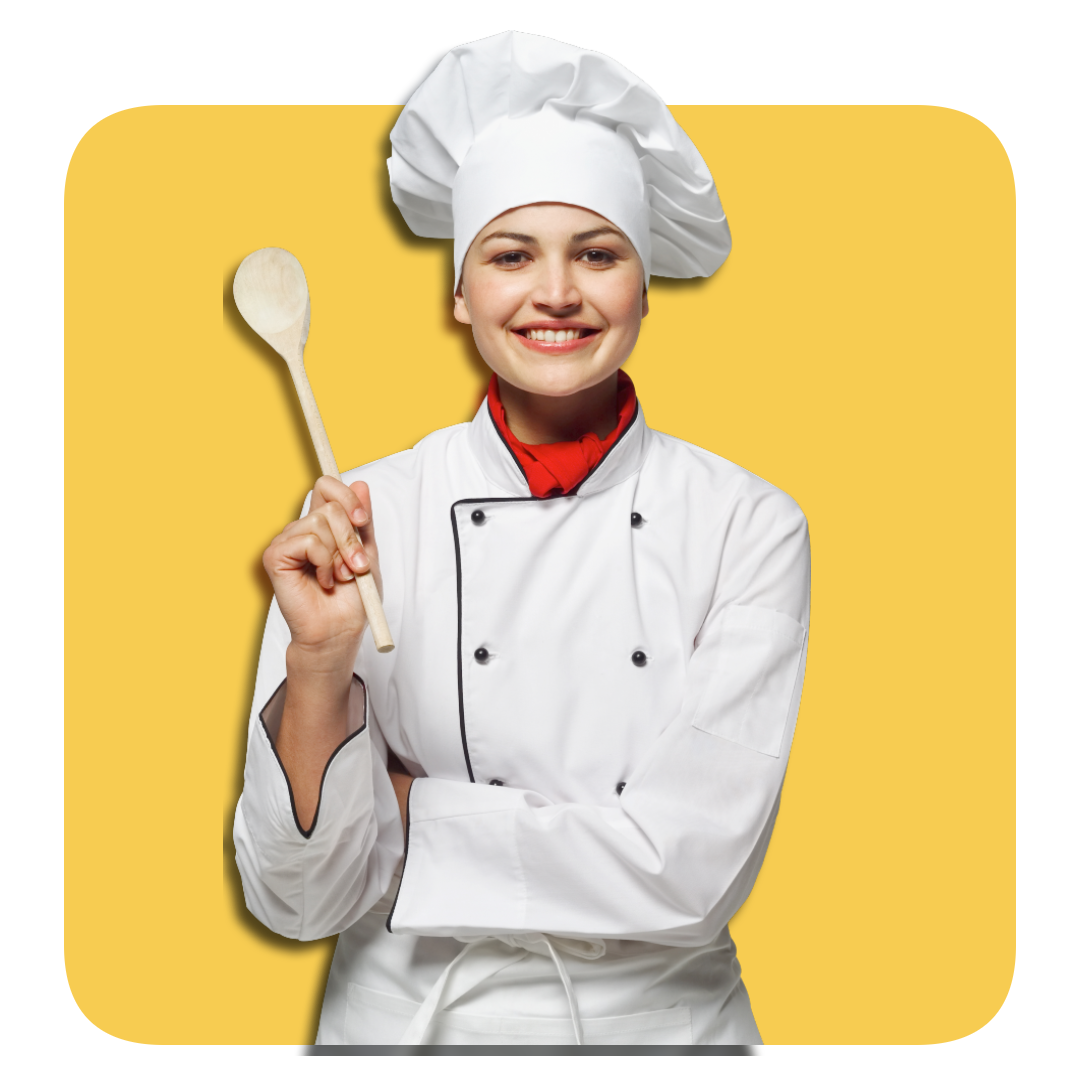
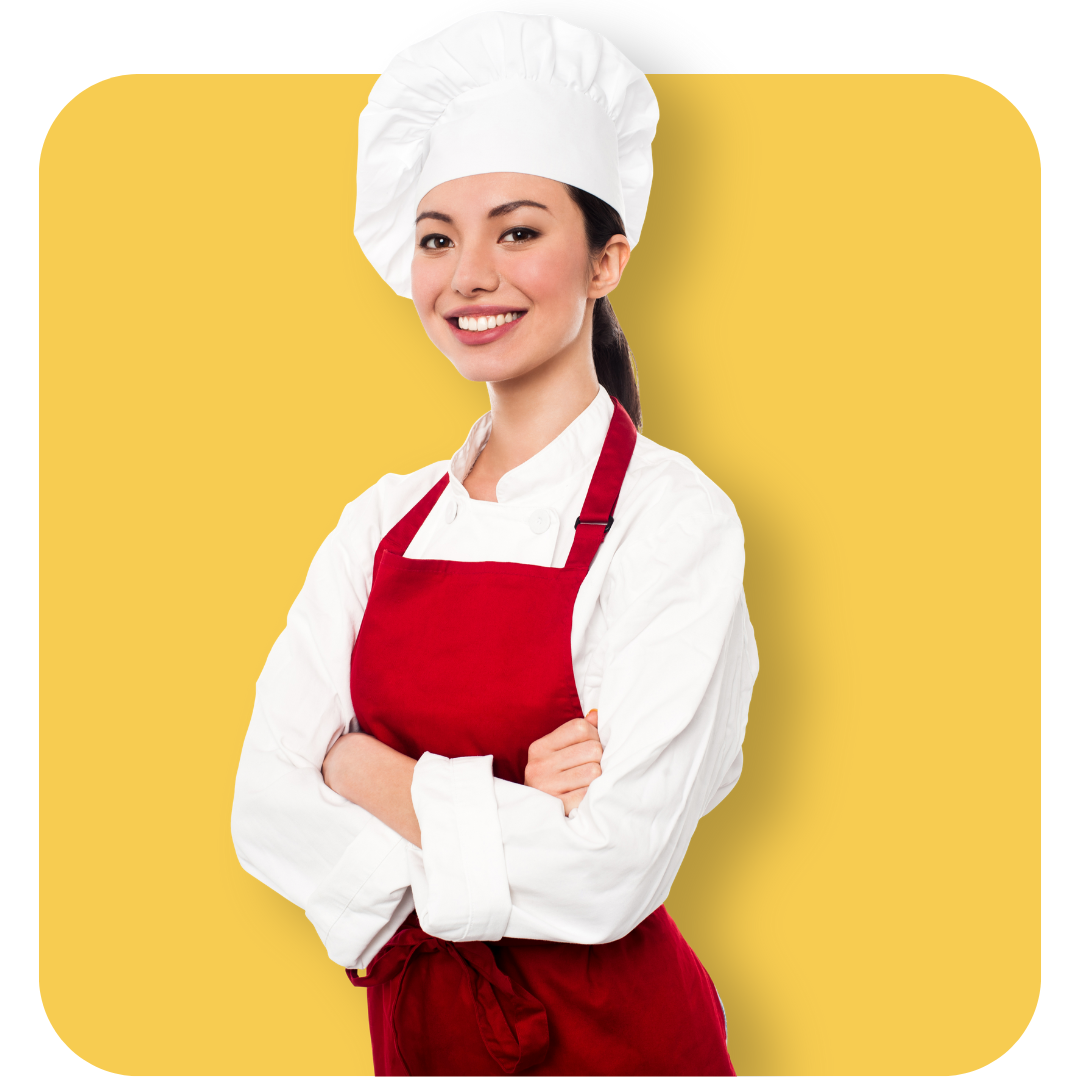
update: hero image

diff --git a/1-food-website/css/index.css b/1-food-website/css/index.css
@@ -3,11 +3,11 @@
 section.hero {
     display: flex;
     align-items: center;
-    height: 85vh;
+    justify-content: space-between;
 }
 
 .hero__cta h3 {
-    font-size: 3em;
+    font-size: 4em;
     line-height: 1em;
 }
 
@@ -18,6 +18,7 @@ section.hero {
 .hero__cta p {
     margin-top: 1em;
     width: 25em;
+    font-size: 1.2em;
 }
 
 .cta__button {
@@ -59,13 +60,6 @@ section.hero {
     background-color: var(--yellow-500);
 }
 
-.hero__banner {
-    display: flex;
-    justify-content: end;
-    align-items: start;
-    width: 70%;
-}
-
 .hero__banner img {
-    width: inherit;
+    height: 42em;
 }

diff --git a/1-food-website/index.html b/1-food-website/index.html
@@ -35,7 +35,6 @@
 
     <main>
         <section class="container hero">
-            <h2></h2>
             <div class="hero__cta">
 
                 <h3>Curta suas comidas <span>deliciosas</span></h3>
@@ -57,9 +56,9 @@
                     </a>
                 </div>
             </div>
-            <figure class="hero__banner">
+            <div class="hero__banner">
                 <img src="images/hero.png" alt="Imagem de chef de cozinha">
-            </figure>
+            </div>
         </section>
         <section class="container">
             <h2>NOSSOS SERVIÇOS</h2>

diff --git a/1-food-website/css/base.css b/1-food-website/css/base.css
@@ -14,10 +14,10 @@ body {
 }
 
 .container {
-    max-width: 1200px;
+    max-width: 90em;
     margin: 0 auto;
 }
 
 section {
-    padding: 5em 0;
+    padding: 3em 0;
 }
